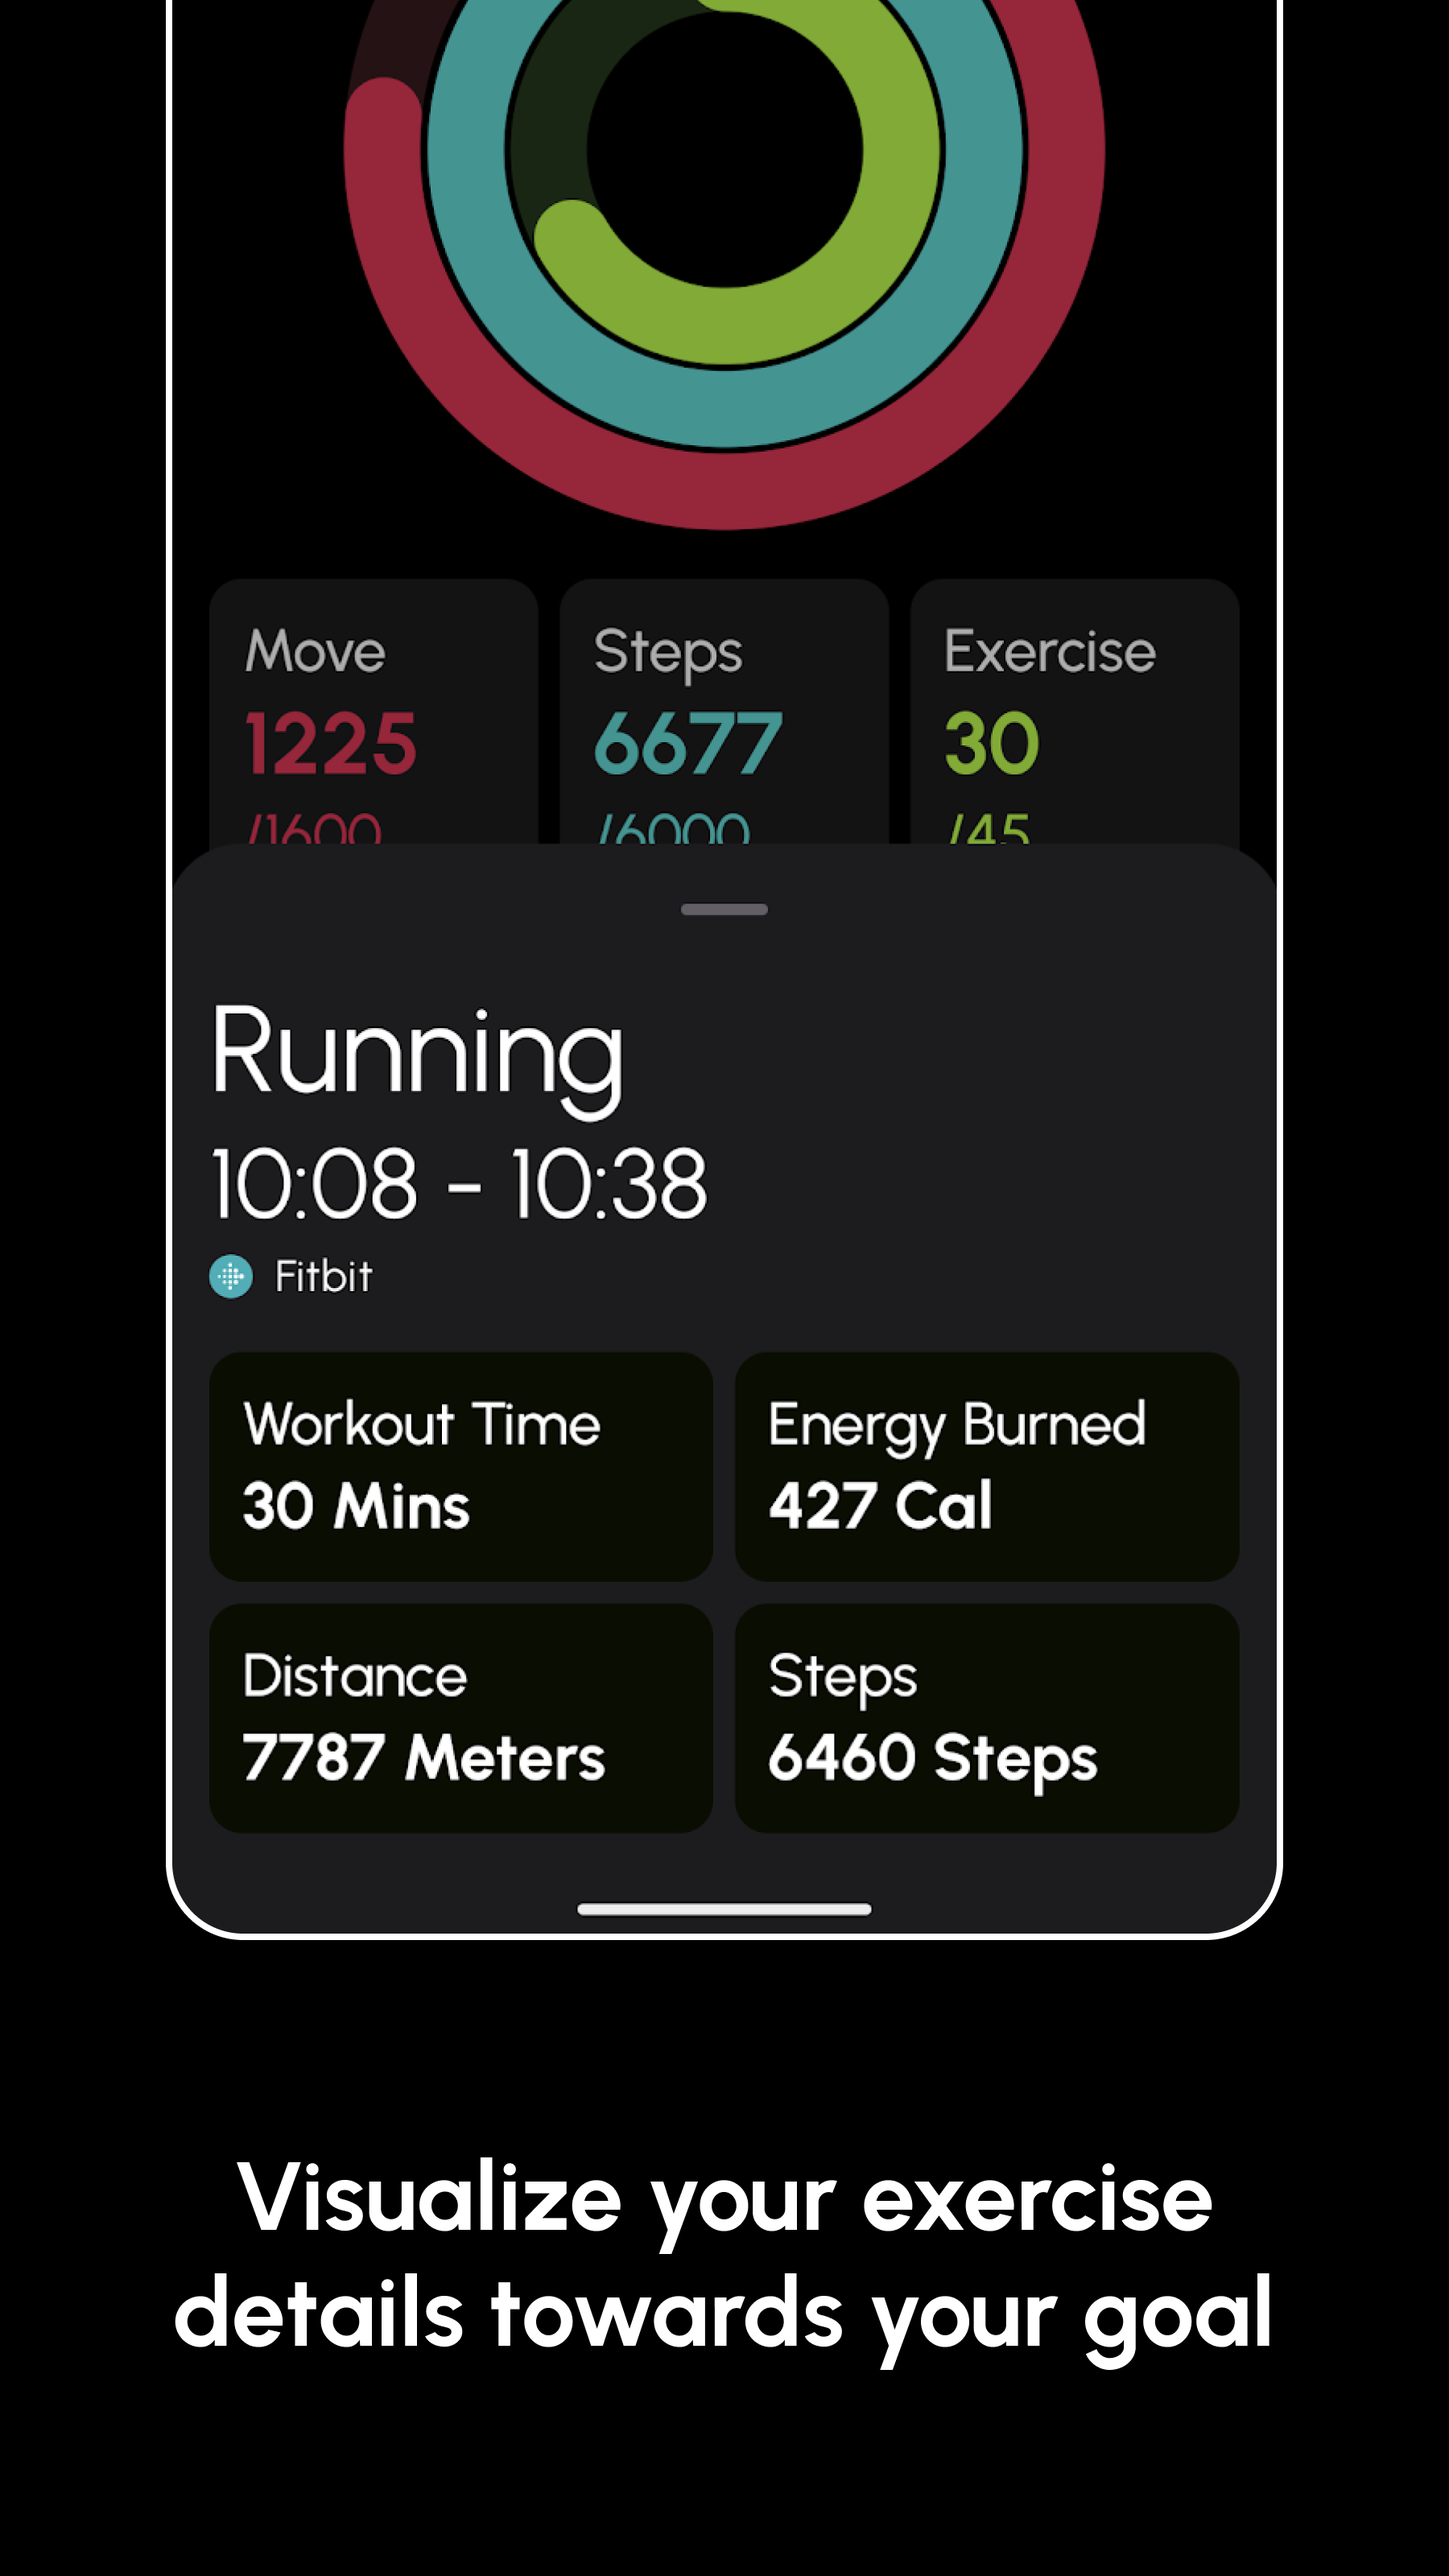
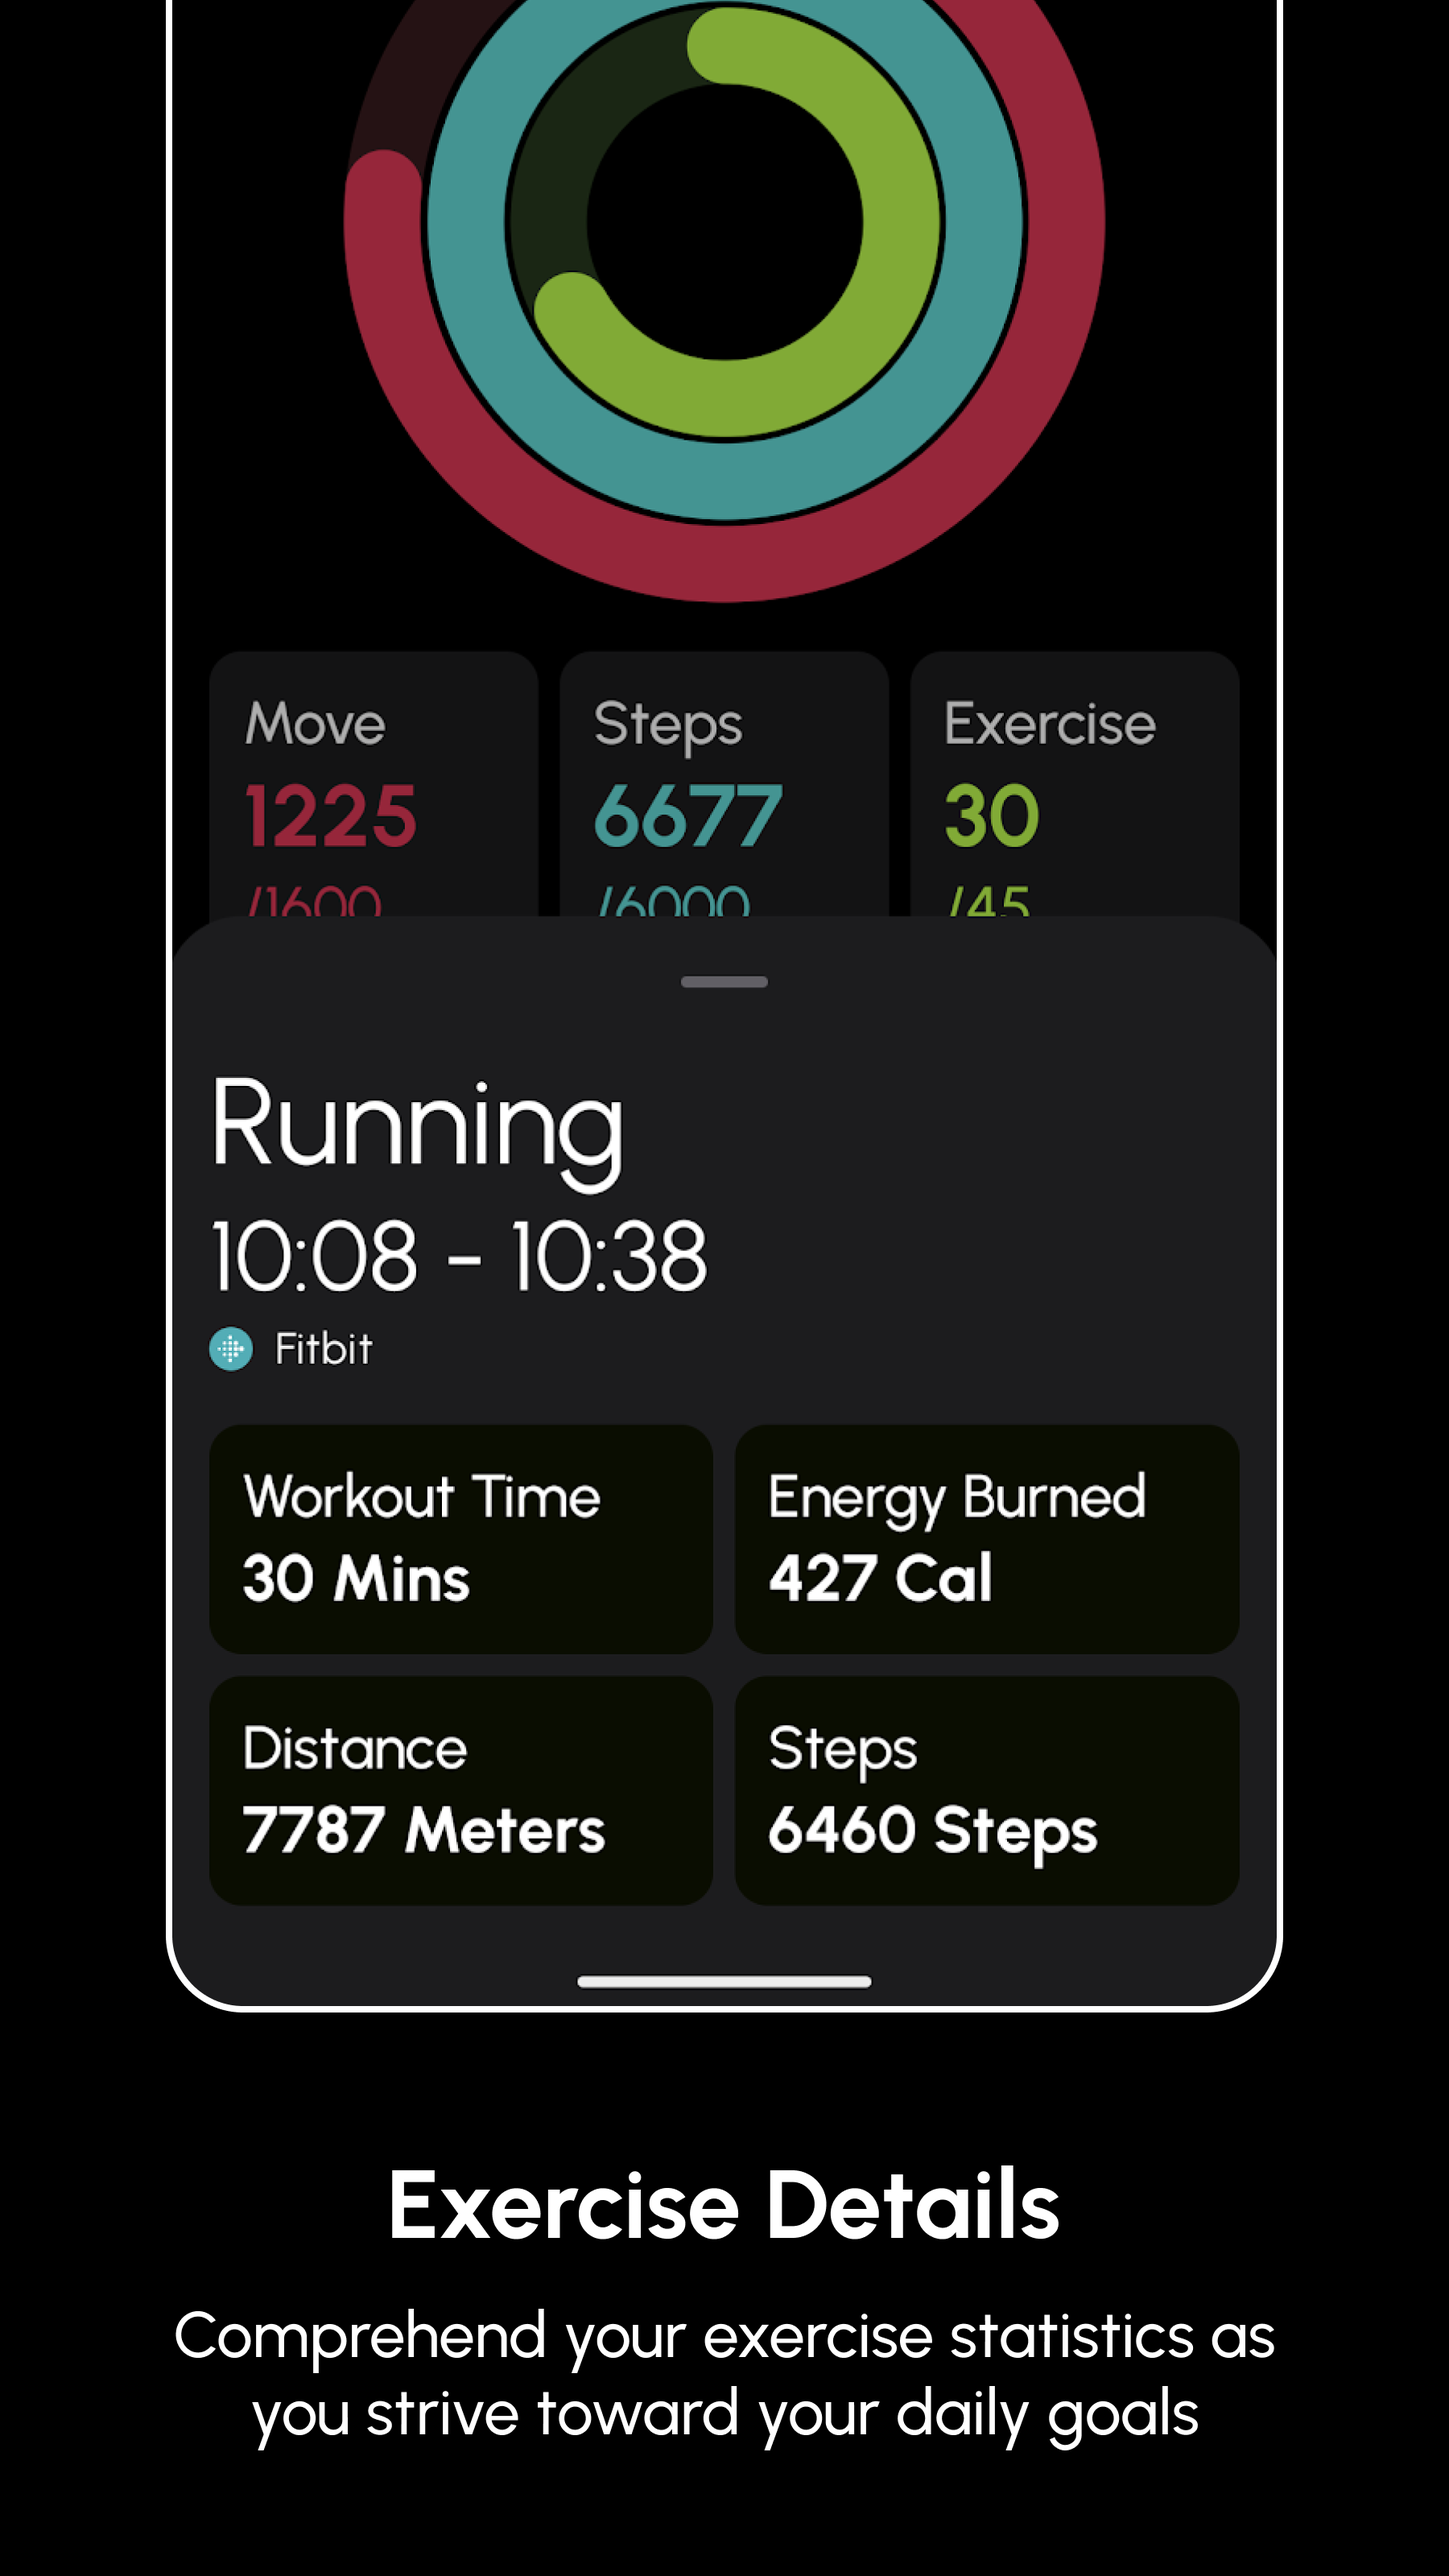
update screenshot

diff --git a/_programmings/2024-03-01-rings.md b/_programmings/2024-03-01-rings.md
@@ -26,5 +26,6 @@ The application is crafted using **Jetpack Compose**, leveraging the capabilitie
     <img src="/images/rings/Screenshot2.png">
     <img src="/images/rings/Screenshot3.png">
     <img src="/images/rings/Screenshot4.png">
+     <img src="/images/rings/Screenshot5.png">
 
 </div>
